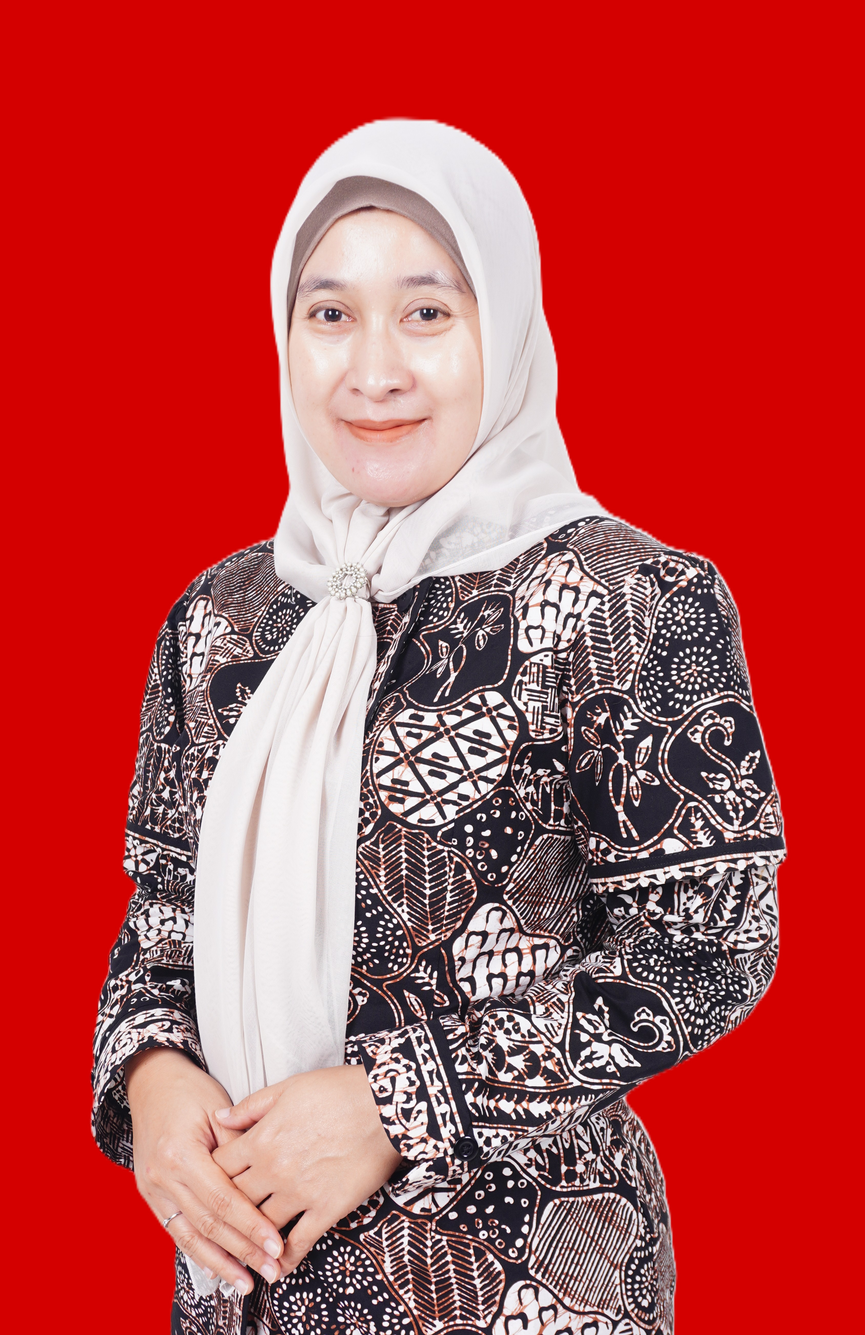
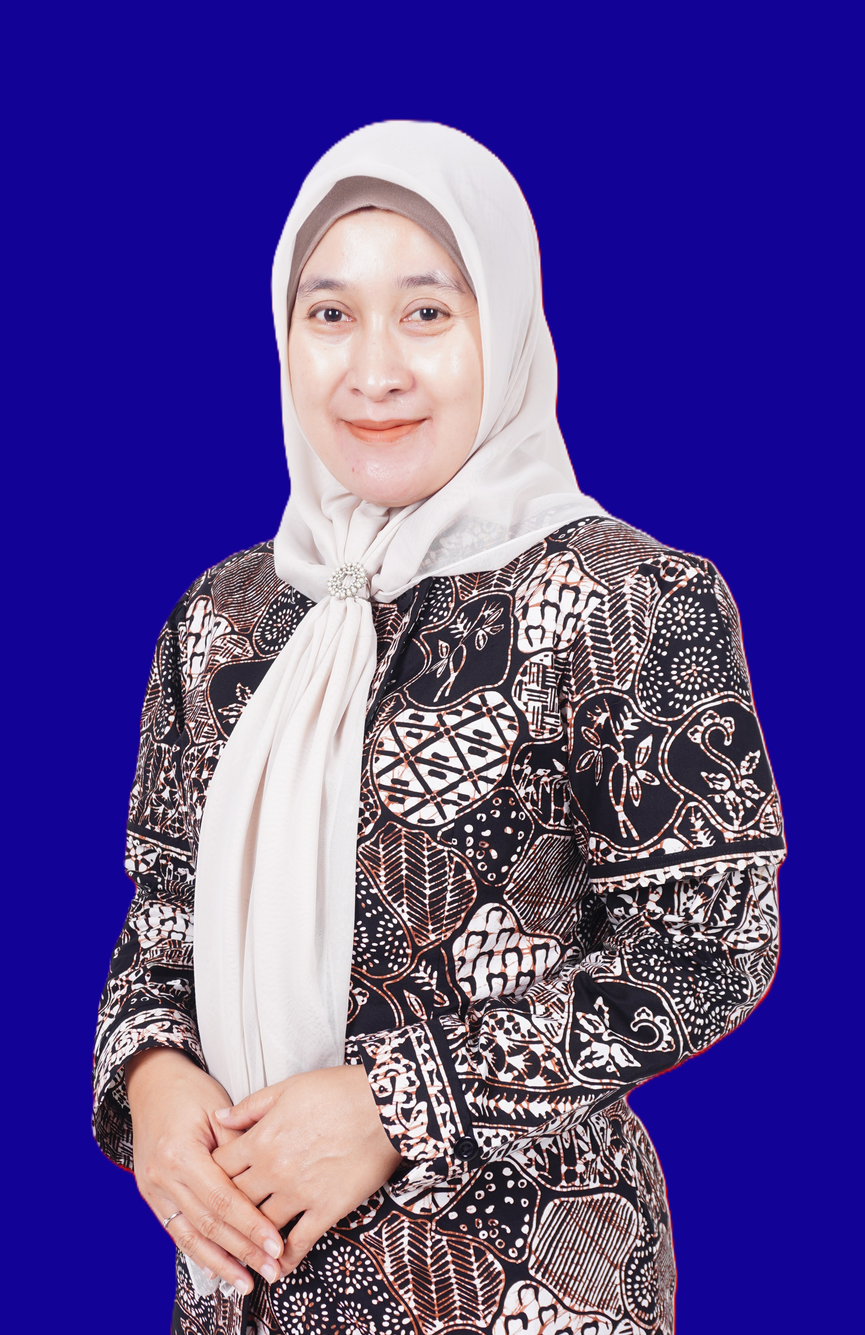
welcome,struktur belum fix

diff --git a/resources/views/welcome.blade.php b/resources/views/welcome.blade.php
@@ -1178,7 +1178,7 @@
             <div class="ws-right">
               <div class="ws-kicker"><span class="ws-kicker-line"></span>Welcome Message</div>
               <div class="ws-welcome">Sambutan Kepala Sekolah</div>
-              <div class="ws-quote">&ldquo;Pendidikan adalah proses untuk menyiapkan generasi menghadapi masa depan.&rdquo;</div>
+              <div class="ws-quote">&ldquo;Satu langkah hari ini lebih berharga dari pada seribu rencana yang di tunda.&rdquo;</div>
               <p class="ws-msg">Assalamu&rsquo;alaikum warahmatullahi wabarakatuh. Selamat datang di website resmi SMK Negeri 2 Mojokerto. Kami berkomitmen mencetak generasi vokasi yang kompeten, berkarakter, dan siap bersaing di dunia industri global. Bersama seluruh civitas akademika, kami terus berinovasi demi masa depan pendidikan vokasi yang lebih baik.</p>
               <div class="ws-sign">
                 <div class="ws-sign-name">Iswahyudi, S.ST. M.Pd</div>
@@ -1266,7 +1266,7 @@
             <div class="cc-body">
               <div class="cc-abbr">APHP</div>
               <div class="cc-full">Agribisnis Pengolahan Hasil Pertanian</div>
-              <a href="career-roadmap.html" class="cc-cta">Lihat Jurusan <i class="fas fa-arrow-right"></i></a>
+              <a href="{{ route('aphp') }}" class="cc-cta">Lihat Jurusan <i class="fas fa-arrow-right"></i></a>
             </div>
           </div>
         </article>
@@ -1279,7 +1279,7 @@
             <div class="cc-body">
               <div class="cc-abbr">DKV</div>
               <div class="cc-full">Desain Komunikasi Visual</div>
-              <a href="career-roadmap.html" class="cc-cta">Lihat Jurusan <i class="fas fa-arrow-right"></i></a>
+              <a href="{{ route('dkv') }}" class="cc-cta">Lihat Jurusan <i class="fas fa-arrow-right"></i></a>
             </div>
           </div>
         </article>
@@ -1292,7 +1292,7 @@
             <div class="cc-body">
               <div class="cc-abbr">KULINER</div>
               <div class="cc-full">Kuliner</div>
-              <a href="career-roadmap.html" class="cc-cta">Lihat Jurusan <i class="fas fa-arrow-right"></i></a>
+              <a href="{{ route('kuliner') }}" class="cc-cta">Lihat Jurusan <i class="fas fa-arrow-right"></i></a>
             </div>
           </div>
         </article>
@@ -1305,7 +1305,7 @@
             <div class="cc-body">
               <div class="cc-abbr">LPS</div>
               <div class="cc-full">Layanan Perbankan Syariah</div>
-              <a href="career-roadmap.html" class="cc-cta">Lihat Jurusan <i class="fas fa-arrow-right"></i></a>
+              <a href="{{ route('lps') }}" class="cc-cta">Lihat Jurusan <i class="fas fa-arrow-right"></i></a>
             </div>
           </div>
         </article>
@@ -1318,7 +1318,7 @@
             <div class="cc-body">
               <div class="cc-abbr">RPL</div>
               <div class="cc-full">Rekayasa Perangkat Lunak</div>
-              <a href="career-roadmap.html" class="cc-cta">Lihat Jurusan <i class="fas fa-arrow-right"></i></a>
+              <a href="{{ route('rpl') }}" class="cc-cta">Lihat Jurusan <i class="fas fa-arrow-right"></i></a>
             </div>
           </div>
         </article>
@@ -1439,7 +1439,7 @@
 /* Logo partner: TANPA BOX/BG — hanya logo + shadow halus + informasi di bawah */
 .out-logo-card{width:150px;height:128px;border-radius:0;background:transparent;border:0;box-shadow:none;display:flex;flex-direction:column;align-items:center;justify-content:center;gap:.75rem;flex:0 0 auto;transition:transform .3s ease,filter .3s ease}
 .out-logo-card:hover{transform:translateY(-6px);filter:drop-shadow(0 14px 20px rgba(23,32,79,.18))}
-.out-logo-mark{width:78px;height:62px;border-radius:0;display:grid;place-items:center;background:transparent;border:0;box-shadow:0 12px 24px rgba(23,32,79,.12);color:#0d3a66;font-weight:900;font-size:.58rem;letter-spacing:.06em;text-align:center;padding:4px;filter:drop-shadow(0 8px 10px rgba(23,32,79,.12))}
+.out-logo-mark{width:110px;height:72px;border-radius:0;display:flex;align-items:center;justify-content:center;background:transparent;border:0;box-shadow:none;color:#0d3a66;padding:0;filter:none} .out-logo-mark img{width:100%;height:100%;object-fit:contain;object-position:center;display:block;background:transparent;border:0;border-radius:0;box-shadow:none;padding:0}
 .out-logo-card small{color:#0d3a66;font-size:.62rem;font-weight:900;letter-spacing:.12em;text-transform:uppercase;text-align:center;line-height:1.3}
 @keyframes outLogoMove{from{transform:translateX(0)}to{transform:translateX(-50%)}}
 .out-ind-pills{display:flex;flex-wrap:wrap;justify-content:center;gap:.7rem;margin-top:1.2rem}
@@ -2246,20 +2246,34 @@
     <div class="out-logo-window" data-reveal style="--d:1">
       <div class="out-logo-track" id="industryTrack">
         <div class="out-logo-group">
-          <div class="out-logo-card"><div class="out-logo-mark">LOGO<br>PARTNER</div><small>DUDI 1</small></div>
-          <div class="out-logo-card"><div class="out-logo-mark">LOGO<br>PARTNER</div><small>DUDI 2</small></div>
-          <div class="out-logo-card"><div class="out-logo-mark">LOGO<br>PARTNER</div><small>DUDI 3</small></div>
-          <div class="out-logo-card"><div class="out-logo-mark">LOGO<br>PARTNER</div><small>DUDI 4</small></div>
-          <div class="out-logo-card"><div class="out-logo-mark">LOGO<br>PARTNER</div><small>DUDI 1</small></div>
-          <div class="out-logo-card"><div class="out-logo-mark">LOGO<br>PARTNER</div><small>DUDI 2</small></div>
+          <div class="out-logo-card"><div class="out-logo-mark"><img src="{{ asset('images/industri/hummatech.png') }}" alt="Logo Hummatech" loading="lazy"></div><small>Hummatech</small></div>
+          <div class="out-logo-card"><div class="out-logo-mark"><img src="{{ asset('images/industri/primafood.png') }}" alt="Logo PrimaFood" loading="lazy"></div><small>PrimaFood</small></div>
+          <div class="out-logo-card"><div class="out-logo-mark"><img src="{{ asset('images/industri/anekapay.png') }}" alt="Logo AnekaPay" loading="lazy"></div><small>AnekaPay</small></div>
+          <div class="out-logo-card"><div class="out-logo-mark"><img src="{{ asset('images/industri/minarsih.png') }}" alt="Logo Minarsih" loading="lazy"></div><small>Minarsih</small></div>
+          <div class="out-logo-card"><div class="out-logo-mark"><img src="{{ asset('images/industri/digiprosb.png') }}" alt="Logo DigiproSB" loading="lazy"></div><small>DigiproSB</small></div>
+          <div class="out-logo-card"><div class="out-logo-mark"><img src="{{ asset('images/industri/smartfren.png') }}" alt="Logo Smartfren" loading="lazy"></div><small>Smartfren</small></div>
+          <div class="out-logo-card"><div class="out-logo-mark"><img src="{{ asset('images/industri/hsp.png') }}" alt="Logo HSP" loading="lazy"></div><small>HSP</small></div>
+          <div class="out-logo-card"><div class="out-logo-mark"><img src="{{ asset('images/industri/sido-jodo.png') }}" alt="Logo Sido Jodo" loading="lazy"></div><small>Sido Jodo</small></div>
+          <div class="out-logo-card"><div class="out-logo-mark"><img src="{{ asset('images/industri/maspion-it.png') }}" alt="Logo Maspion IT" loading="lazy"></div><small>Maspion IT</small></div>
+          <div class="out-logo-card"><div class="out-logo-mark"><img src="{{ asset('images/industri/media-tama.png') }}" alt="Logo MediaTama" loading="lazy"></div><small>MediaTama</small></div>
+          <div class="out-logo-card"><div class="out-logo-mark"><img src="{{ asset('images/industri/otak-kanan.png') }}" alt="Logo Otak Kanan" loading="lazy"></div><small>Otak Kanan</small></div>
+          <div class="out-logo-card"><div class="out-logo-mark"><img src="{{ asset('images/industri/apika-finance.png') }}" alt="Logo Apika Finance" loading="lazy"></div><small>Apika Finance</small></div>
+          <div class="out-logo-card"><div class="out-logo-mark"><img src="{{ asset('images/industri/rs-islam-sakinah-mojokerto.png') }}" alt="Logo Rumah Sakit Islam Sakinah Mojokerto" loading="lazy"></div><small>Rumah Sakit Islam Sakinah Mojokerto</small></div>
         </div>
         <div class="out-logo-group" aria-hidden="true">
-          <div class="out-logo-card"><div class="out-logo-mark">LOGO<br>PARTNER</div><small>DUDI 1</small></div>
-          <div class="out-logo-card"><div class="out-logo-mark">LOGO<br>PARTNER</div><small>DUDI 2</small></div>
-          <div class="out-logo-card"><div class="out-logo-mark">LOGO<br>PARTNER</div><small>DUDI 3</small></div>
-          <div class="out-logo-card"><div class="out-logo-mark">LOGO<br>PARTNER</div><small>DUDI 4</small></div>
-          <div class="out-logo-card"><div class="out-logo-mark">LOGO<br>PARTNER</div><small>DUDI 1</small></div>
-          <div class="out-logo-card"><div class="out-logo-mark">LOGO<br>PARTNER</div><small>DUDI 2</small></div>
+          <div class="out-logo-card"><div class="out-logo-mark"><img src="{{ asset('images/industri/hummatech.png') }}" alt="Logo Hummatech" loading="lazy"></div><small>Hummatech</small></div>
+          <div class="out-logo-card"><div class="out-logo-mark"><img src="{{ asset('images/industri/primafood.png') }}" alt="Logo PrimaFood" loading="lazy"></div><small>PrimaFood</small></div>
+          <div class="out-logo-card"><div class="out-logo-mark"><img src="{{ asset('images/industri/anekapay.png') }}" alt="Logo AnekaPay" loading="lazy"></div><small>AnekaPay</small></div>
+          <div class="out-logo-card"><div class="out-logo-mark"><img src="{{ asset('images/industri/minarsih.png') }}" alt="Logo Minarsih" loading="lazy"></div><small>Minarsih</small></div>
+          <div class="out-logo-card"><div class="out-logo-mark"><img src="{{ asset('images/industri/digiprosb.png') }}" alt="Logo DigiproSB" loading="lazy"></div><small>DigiproSB</small></div>
+          <div class="out-logo-card"><div class="out-logo-mark"><img src="{{ asset('images/industri/smartfren.png') }}" alt="Logo Smartfren" loading="lazy"></div><small>Smartfren</small></div>
+          <div class="out-logo-card"><div class="out-logo-mark"><img src="{{ asset('images/industri/hsp.png') }}" alt="Logo HSP" loading="lazy"></div><small>HSP</small></div>
+          <div class="out-logo-card"><div class="out-logo-mark"><img src="{{ asset('images/industri/sido-jodo.png') }}" alt="Logo Sido Jodo" loading="lazy"></div><small>Sido Jodo</small></div>
+          <div class="out-logo-card"><div class="out-logo-mark"><img src="{{ asset('images/industri/maspion-it.png') }}" alt="Logo Maspion IT" loading="lazy"></div><small>Maspion IT</small></div>
+          <div class="out-logo-card"><div class="out-logo-mark"><img src="{{ asset('images/industri/media-tama.png') }}" alt="Logo MediaTama" loading="lazy"></div><small>MediaTama</small></div>
+          <div class="out-logo-card"><div class="out-logo-mark"><img src="{{ asset('images/industri/otak-kanan.png') }}" alt="Logo Otak Kanan" loading="lazy"></div><small>Otak Kanan</small></div>
+          <div class="out-logo-card"><div class="out-logo-mark"><img src="{{ asset('images/industri/apika-finance.png') }}" alt="Logo Apika Finance" loading="lazy"></div><small>Apika Finance</small></div>
+          <div class="out-logo-card"><div class="out-logo-mark"><img src="{{ asset('images/industri/rs-islam-sakinah-mojokerto.png') }}" alt="Logo Rumah Sakit Islam Sakinah Mojokerto" loading="lazy"></div><small>Rumah Sakit Islam Sakinah Mojokerto</small></div>
         </div>
       </div>
     </div>

diff --git a/resources/views/profile/struktur-organisasi.blade.php b/resources/views/profile/struktur-organisasi.blade.php
@@ -3065,7 +3065,7 @@
               </div>
               <div class="so-photo-wrap">
                 <span class="so-photo-ring" aria-hidden="true"></span>
-                <div class="so-photo"><img src="{{ asset('images/struktur/pimpinan.jpeg') }}" alt="Foto Kepala Sekolah" loading="lazy"></div>
+                <div class="so-photo"><img src="{{ asset('images/struktur/pimpinan.png') }}" alt="Foto Kepala Sekolah" loading="lazy"></div>
                 <span class="so-photo-tag is-gold"><i class="fas fa-star"></i></span>
               </div>
               <div class="so-feed-actions" aria-label="Interaksi postingan">
@@ -3129,7 +3129,7 @@
                 <i class="far fa-bookmark so-bookmark" aria-hidden="true"></i>
               </div>
               <h3 class="so-card-name">Wakil Kepala Sekolah</h3>
-              <div class="so-card-person">Ainur Rofik, M. Pd., Si</div>
+              <div class="so-card-person">Nama Waka Kesiswaan</div>
               <div class="so-card-role"><i class="fas fa-briefcase"></i> Bidang Kesiswaan</div>
               <p class="so-card-unit">Pembinaan &amp; layanan peserta didik</p>
             </article>
